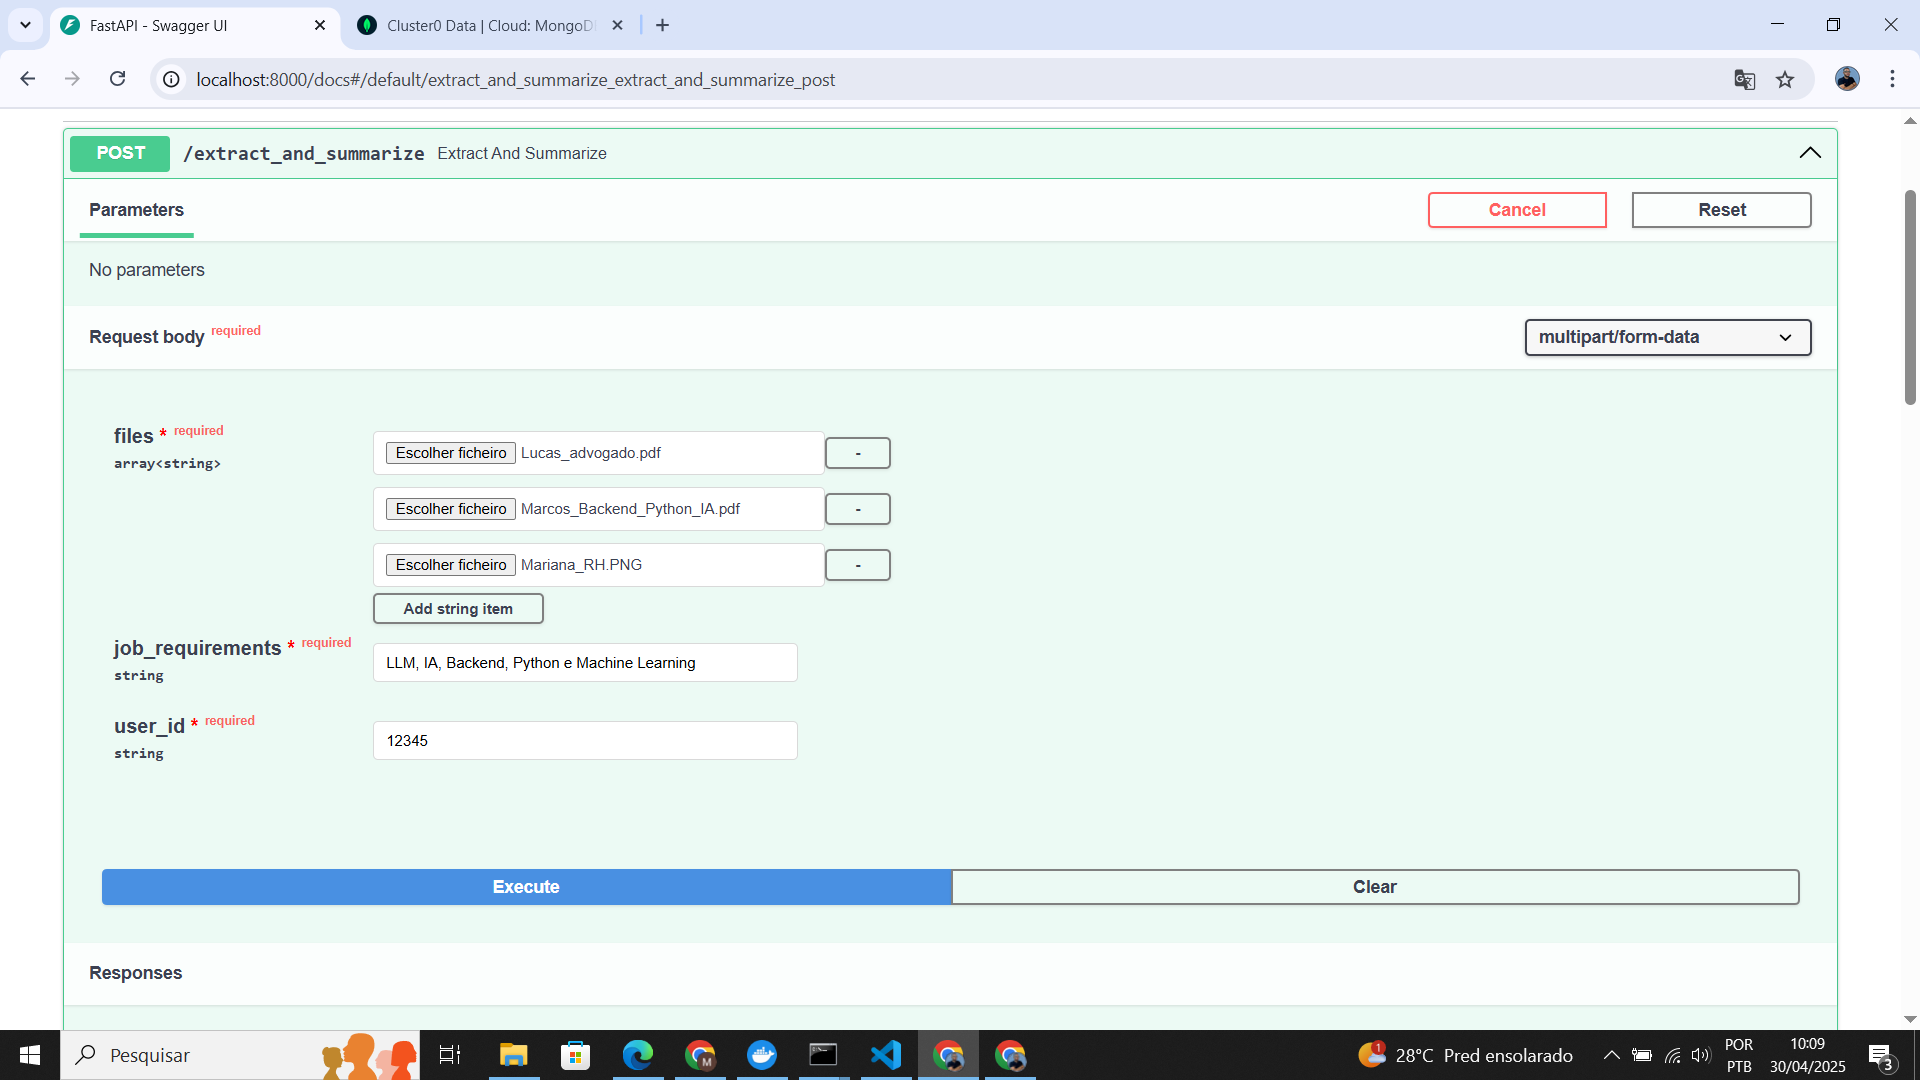
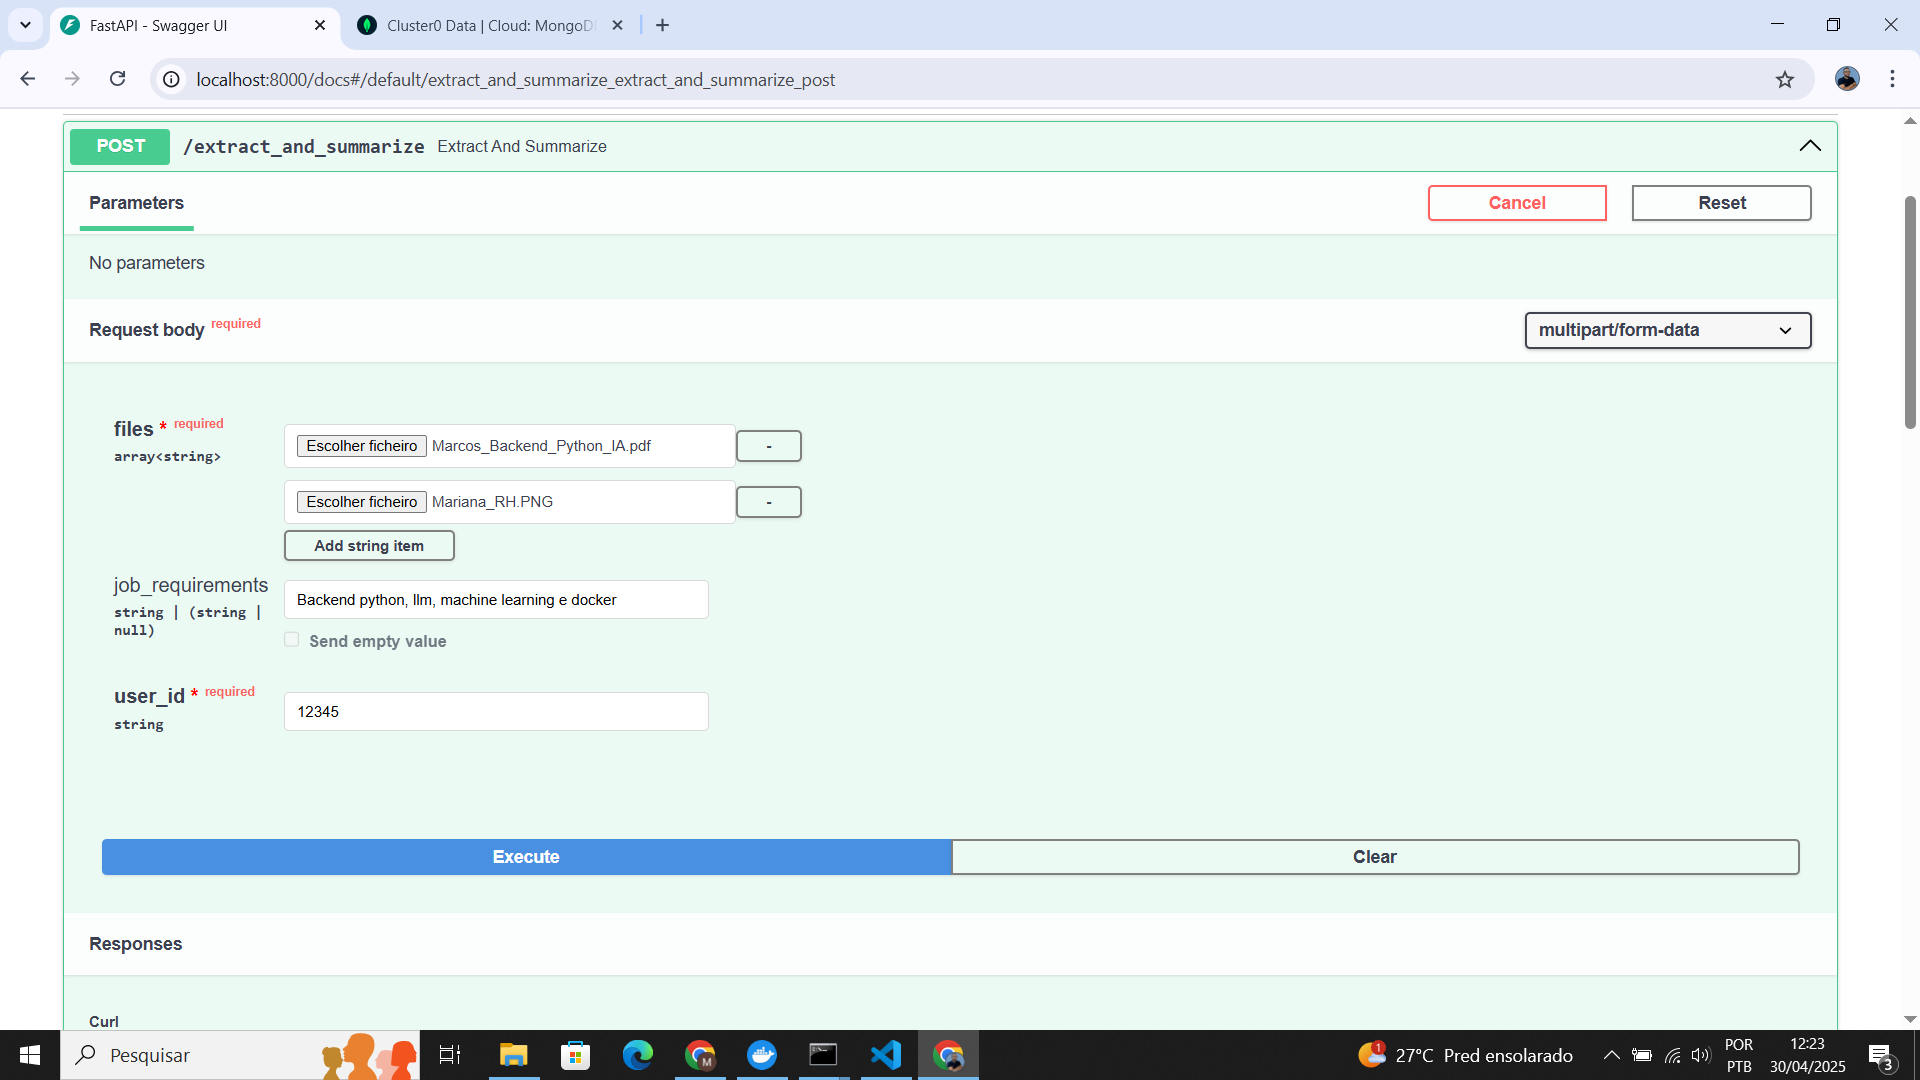
adição do endpoint get e update em post

diff --git a/app/routes/cv_summary.py b/app/routes/cv_summary.py
@@ -1,26 +1,24 @@
-from typing import List
+from typing import List, Optional
 from fastapi import APIRouter, File, UploadFile, HTTPException, Form
 from datetime import datetime
 import uuid
-from bson import ObjectId
 
-from app.models.schemas import ExtractAndSummarizeResponse 
 from app.sumarizer import summarize_text
 from app.extract_text import extract_text_from_pdf, extract_text_from_image
 from app.llm_response import answer_best_candidate
-from app.db.mongo import save_summary_record
+from app.db.mongo import save_summary, collection
+from app.models.schemas import FullAnalysisResponse, SummariesOnlyResponse
 
 router = APIRouter()
 
-@router.post("/extract_and_summarize", response_model=ExtractAndSummarizeResponse)
+@router.post("/extract_and_summarize")
 async def extract_and_summarize(
     files: List[UploadFile] = File(...),
-    job_requirements: str = Form(...),
+    job_requirements: Optional[str] = Form(None),
     user_id: str = Form(...),
 ):
     summaries = []
     resume_texts = []
-
     request_id = str(uuid.uuid4())
     timestamp = datetime.utcnow()
 
@@ -56,24 +54,34 @@ async def extract_and_summarize(
         if not resume_texts:
             raise HTTPException(status_code=400, detail="Nenhum currículo processado com sucesso.")
 
-        question = f"Qual desses currículos se enquadra melhor para a vaga com os seguintes requisitos: {job_requirements}?"
-        best_candidate_response = answer_best_candidate(question, resume_texts)
-
-        result_payload = {
+        base_payload = {
             "request_id": request_id,
             "user_id": user_id,
             "timestamp": timestamp,
-            "summaries": summaries,
-            "best_candidate_answer": best_candidate_response
-        }
-        record_id = save_summary_record(result_payload)
-
-        response_data = {
-            **result_payload,
-            "record_id": record_id
+            "summaries": summaries
         }
 
-        return ExtractAndSummarizeResponse(**response_data)
+        if job_requirements:
+            best_candidate_response = answer_best_candidate(
+                f"Qual currículo melhor atende: {job_requirements}?", 
+                resume_texts
+            )
+            result_payload = {**base_payload, "best_candidate_answer": best_candidate_response}
+            record_id = save_summary(result_payload)
+            return FullAnalysisResponse(**result_payload, record_id=record_id)
+        else:
+            record_id = save_summary(base_payload)
+            return SummariesOnlyResponse(**base_payload, record_id=record_id)
 
+    except Exception as e:
+        raise HTTPException(status_code=500, detail=str(e))
+
+@router.get("/logs")
+async def get_logs():
+    try:
+        logs = list(collection.find({}, {"_id": 0}))
+        if not logs:
+            return {"message": "Nenhum registro encontrado"}
+        return logs
     except Exception as e:
         raise HTTPException(status_code=500, detail=str(e))

diff --git a/app/models/schemas.py b/app/models/schemas.py
@@ -1,5 +1,5 @@
 from pydantic import BaseModel, ConfigDict
-from typing import List, Union, Optional
+from typing import List, Union
 from datetime import datetime
 from bson import ObjectId
 
@@ -8,13 +8,43 @@ class SummaryItem(BaseModel):
     summary: Union[str, None] = None
     error: Union[str, None] = None
 
-class ExtractAndSummarizeResponse(BaseModel):
+class BaseSummaryResponse(BaseModel):
+    request_id: str
+    user_id: str
+    timestamp: datetime
+    summaries: List[SummaryItem]
+    record_id: str
+
+    model_config = ConfigDict(
+        json_encoders={
+            ObjectId: str,
+            datetime: lambda v: v.isoformat()
+        },
+        arbitrary_types_allowed=True
+    )
+
+class FullAnalysisResponse(BaseModel):
     request_id: str
     user_id: str
     timestamp: datetime
     summaries: List[SummaryItem]
     best_candidate_answer: str
-    record_id: str 
+    record_id: str
+
+    model_config = ConfigDict(
+        json_encoders={
+            ObjectId: str,
+            datetime: lambda v: v.isoformat()
+        },
+        arbitrary_types_allowed=True
+    )
+
+class SummariesOnlyResponse(BaseModel):
+    request_id: str
+    user_id: str
+    timestamp: datetime
+    summaries: List[SummaryItem]
+    record_id: str
 
     model_config = ConfigDict(
         json_encoders={

diff --git a/app/db/mongo.py b/app/db/mongo.py
@@ -1,7 +1,7 @@
 from pymongo import MongoClient
 import os
 
-MONGO_URI = os.getenv("MONGO_URI", "mongodb://localhost:27017")  
+MONGO_URI = os.getenv("MONGO_URI", "mongodb://localhost:27017")
 MONGO_DB = os.getenv("MONGO_DB", "resume_ai")
 MONGO_COLLECTION = os.getenv("MONGO_COLLECTION", "summaries")
 
@@ -9,7 +9,7 @@ client = MongoClient(MONGO_URI)
 db = client[MONGO_DB]
 collection = db[MONGO_COLLECTION]
 
-# Função para salvar o resumo no banco
-def save_summary_record(data: dict):
+def save_summary(data: dict):
+    """Função unificada para salvar no banco"""
     result = collection.insert_one(data)
-    return str(result.inserted_id)  # Garante retorno serializável
+    return str(result.inserted_id)

diff --git a/README.md b/README.md
@@ -119,8 +119,27 @@ http://127.0.0.1:8000/docs
 
 Nesta documentação, você pode testar todos os endpoints da API, incluindo a extração e resumo de currículos.
 
+#### 2.1 POST
+
+- Receba múltiplos PDFs ou imagens (JPEG/PNG). 
+
+- Extraia texto via OCR e gere sumários claros de cada currículo. 
+
+- Responda a perguntas do tipo “Qual desses currículos se enquadra melhor 
+para a vaga de Engenheiro de Software com requisitos {...}?” com 
+justificativas baseadas no conteúdo.
+
+- Registre em um banco não relacional um log contendo request_id, 
+user_id, timestamp, query e resultado — sem armazenar o documento 
+completo — para que Fabio possa auditar e analisar o uso da ferramenta 
+
 ![Visualização de dados](./images/imagem01.png)
 ![Visualização de dados](./images/imagem02.png)
+
+#### 2.2 GET
+
+- retorna as os dados das consultas realizadas
+
 ![Visualização de dados](./images/imagem03.png)
 
 ### 3. Executar com Docker
